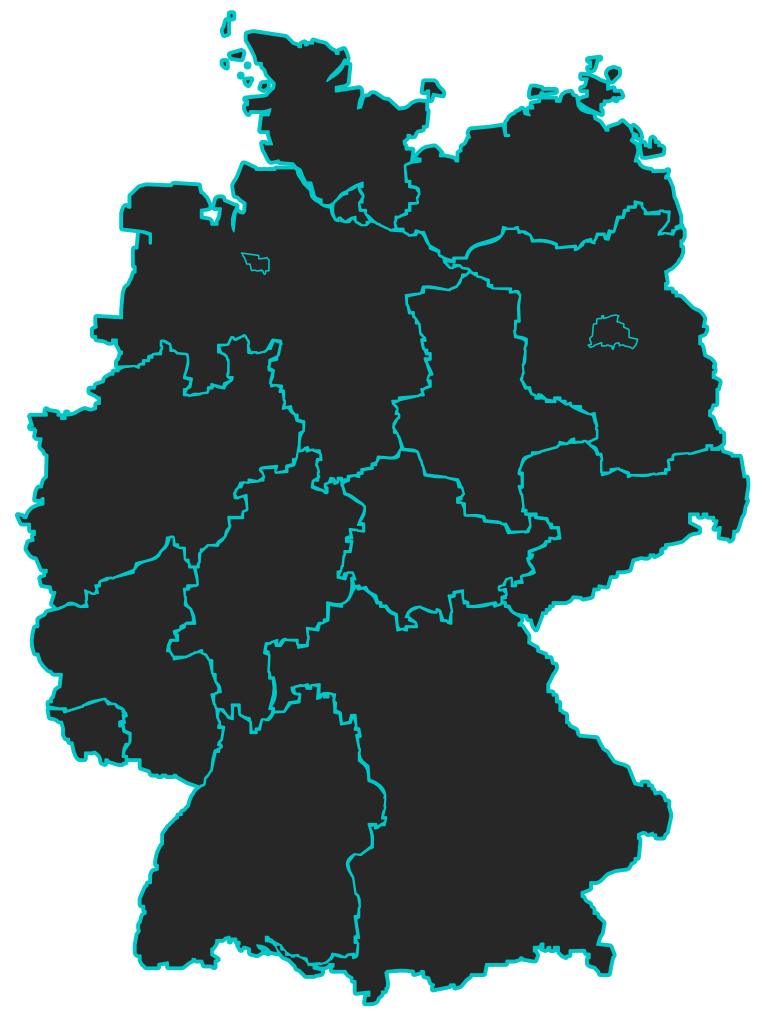
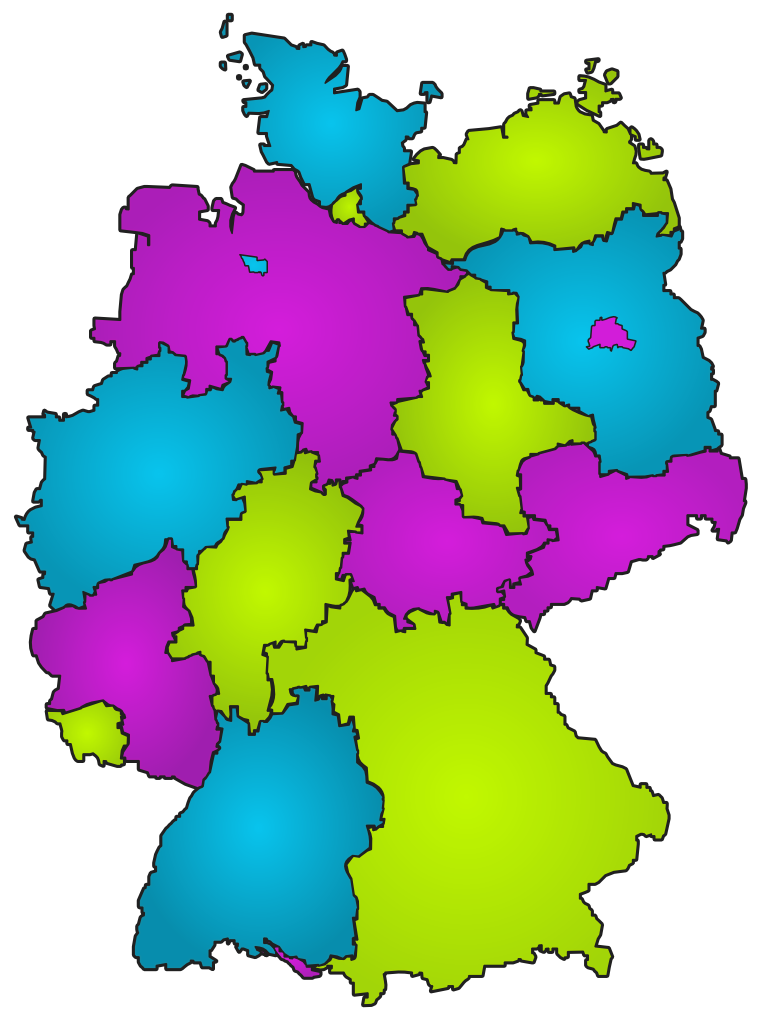
Adjusted map and colors

diff --git a/com.eclipsesource.train.dashboard.ui/src/com/eclipsesource/train/dashboard/ui/EntryPoint.java b/com.eclipsesource.train.dashboard.ui/src/com/eclipsesource/train/dashboard/ui/EntryPoint.java
@@ -379,12 +379,12 @@ public class EntryPoint implements IEntryPoint {
     double delayedTrainsPercentage10 = delayInfo.getDelayedTrainsPercentage( 10 );
     double delayedTrainsPercentage15 = delayInfo.getDelayedTrainsPercentage( 15 );
 
-    Bar bar5m = new Bar( 0, maxAmount, delayedTrainsAmount5, String.valueOf( delayedTrainsAmount5 ), ">5min", new Color( parent.getDisplay(), 0, 200, 0 ) );
-    Bar bar5p = new Bar( 0, 100, delayedTrainsPercentage5, String.valueOf( Math.round( delayedTrainsPercentage5 ) ) + "%", ">5min", new Color( parent.getDisplay(), 0, 200, 0 ) );
-    Bar bar10m = new Bar( 0, maxAmount, delayedTrainsAmount10, String.valueOf( delayedTrainsAmount10 ), ">10min", new Color( parent.getDisplay(), 200, 200, 0 ) );
-    Bar bar10p = new Bar( 0, 100, delayedTrainsPercentage10, String.valueOf( Math.round( delayedTrainsPercentage10 ) ) + "%", ">10min", new Color( parent.getDisplay(), 200, 200, 0 ) );
-    Bar bar15m = new Bar( 0, maxAmount, delayedTrainsAmount15, String.valueOf( delayedTrainsAmount15 ), ">15min", new Color( parent.getDisplay(), 200, 0, 0 ) );
-    Bar bar15p = new Bar( 0, 100, delayedTrainsPercentage15, String.valueOf( Math.round( delayedTrainsPercentage15 ) ) + "%", ">15min", new Color( parent.getDisplay(), 200, 0, 0 ) );
+    Bar bar5m = new Bar( 0, maxAmount, delayedTrainsAmount5, String.valueOf( delayedTrainsAmount5 ), ">5min", new Color( parent.getDisplay(), 8, 196, 237 ) );
+    Bar bar5p = new Bar( 0, 100, delayedTrainsPercentage5, String.valueOf( Math.round( delayedTrainsPercentage5 ) ) + "%", ">5min", new Color( parent.getDisplay(), 8, 196, 237 ) );
+    Bar bar10m = new Bar( 0, maxAmount, delayedTrainsAmount10, String.valueOf( delayedTrainsAmount10 ), ">10min", new Color( parent.getDisplay(), 193, 248, 0 ) );
+    Bar bar10p = new Bar( 0, 100, delayedTrainsPercentage10, String.valueOf( Math.round( delayedTrainsPercentage10 ) ) + "%", ">10min", new Color( parent.getDisplay(), 193, 248, 0 ) );
+    Bar bar15m = new Bar( 0, maxAmount, delayedTrainsAmount15, String.valueOf( delayedTrainsAmount15 ), ">15min", new Color( parent.getDisplay(), 212, 29, 219 ) );
+    Bar bar15p = new Bar( 0, 100, delayedTrainsPercentage15, String.valueOf( Math.round( delayedTrainsPercentage15 ) ) + "%", ">15min", new Color( parent.getDisplay(), 212, 29, 219 ) );
 
     chart.addBar( bar5m );
     chart.addBar( bar5p );

diff --git a/com.eclipsesource.train.dashboard.ui/src/com/eclipsesource/train/dashboard/ui/GermanyMap.java b/com.eclipsesource.train.dashboard.ui/src/com/eclipsesource/train/dashboard/ui/GermanyMap.java
@@ -36,7 +36,7 @@ public class GermanyMap extends Composite {
 
   public GermanyMap( Composite parent, int style ) {
     super( parent, style );
-    markerImage = new Image( this.getDisplay(), GermanyMap.class.getResourceAsStream( "/images/marker_red.png" ) );
+    markerImage = new Image( this.getDisplay(), GermanyMap.class.getResourceAsStream( "/images/marker_white.png" ) );
     createBackground();
   }
 
